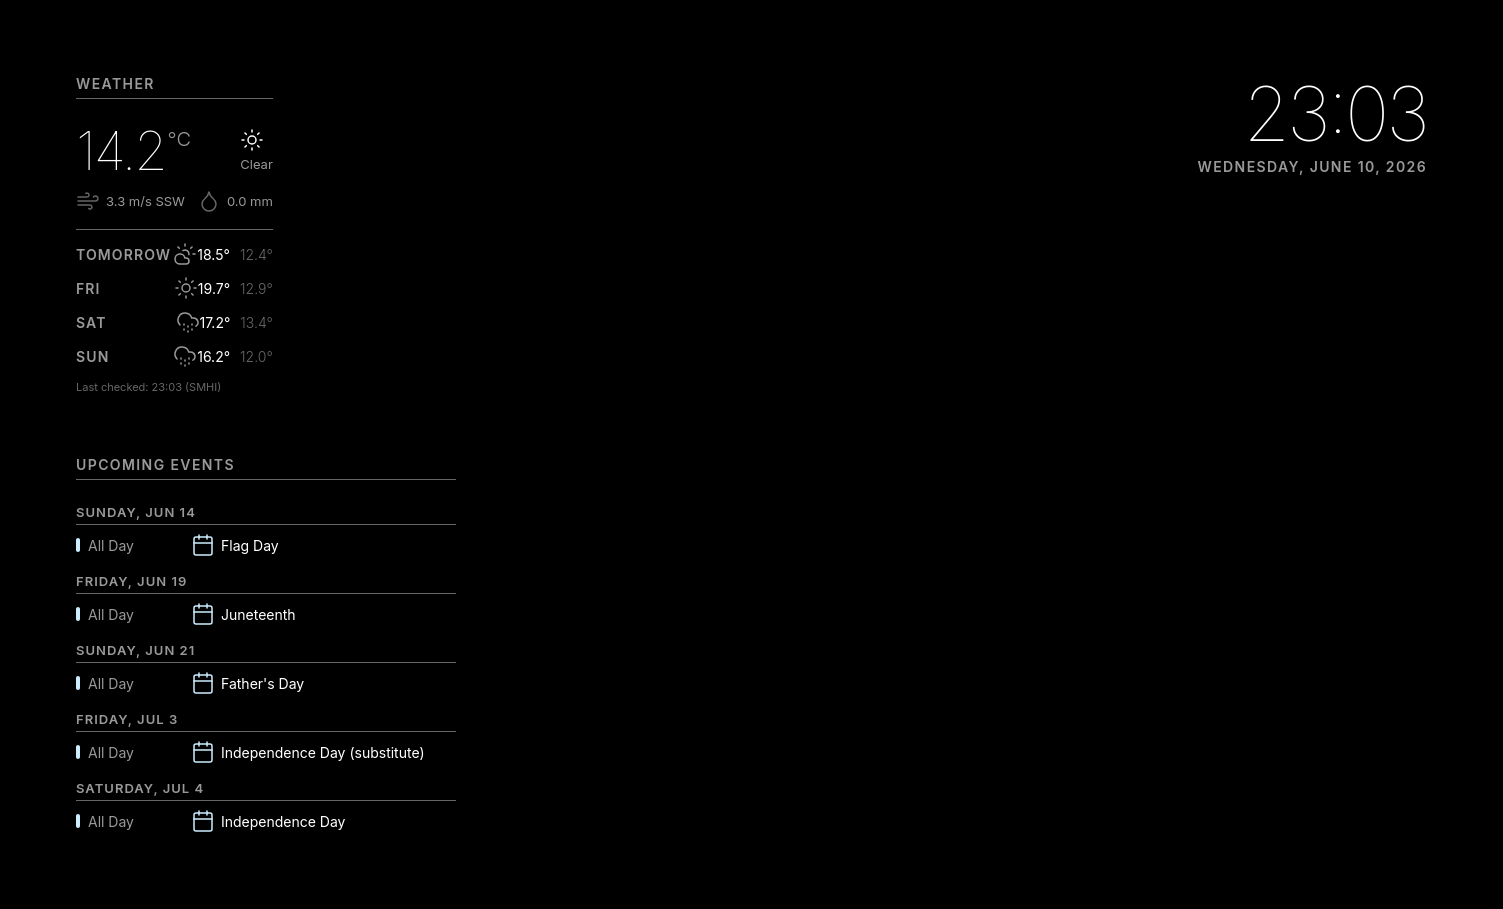
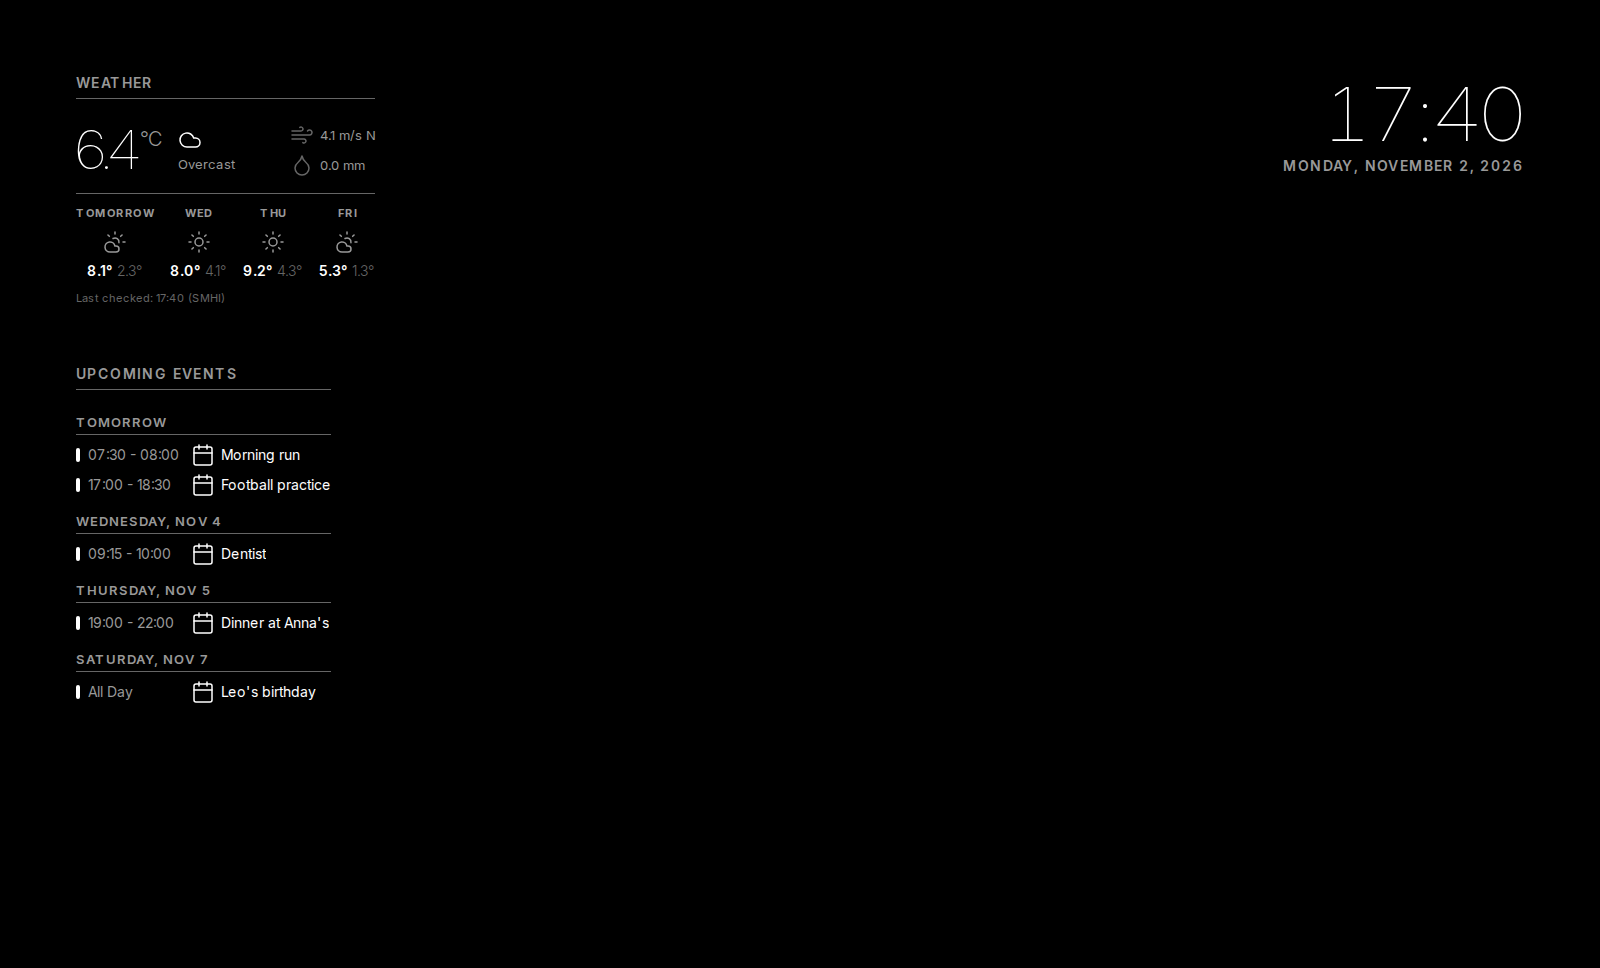
docs: a new screenshot of today's mirror, with an everyday calendar
Clock, weather (SMHI, live) and calendar as they render now, the calendar with a week of everyday events instead of US holidays. compose.py's crop for the video still moves up to where the calendar now starts.

Claude-Session: https://claude.ai/code/session_017RRaRhQDn6e1B5DRPYB4GG

diff --git a/scripts/video/compose.py b/scripts/video/compose.py
@@ -92,7 +92,7 @@ mirror_still(REPO / "mirrordash_core/static/splash.png", ASSETS / "m-boot.png", 
 mirror_still(CLIPS / "m-wifi.png", ASSETS / "m-wifi.png")
 mirror_still(CLIPS / "m-admin.png", ASSETS / "m-admin.png")
 mirror_still(REPO / "screenshot.png", ASSETS / "m-clock.png", keep_right=0.62)
-mirror_still(REPO / "screenshot.png", ASSETS / "m-full.png", black_below=0.47)
+mirror_still(REPO / "screenshot.png", ASSETS / "m-full.png", black_below=0.36)
 Image.new("RGB", (MW, MH)).save(ASSETS / "m-off.png")
 Image.open(REPO / "mirrordash_core/static/icon-512.png").resize((150, 150), Image.LANCZOS).save(ASSETS / "mark.png")
 
